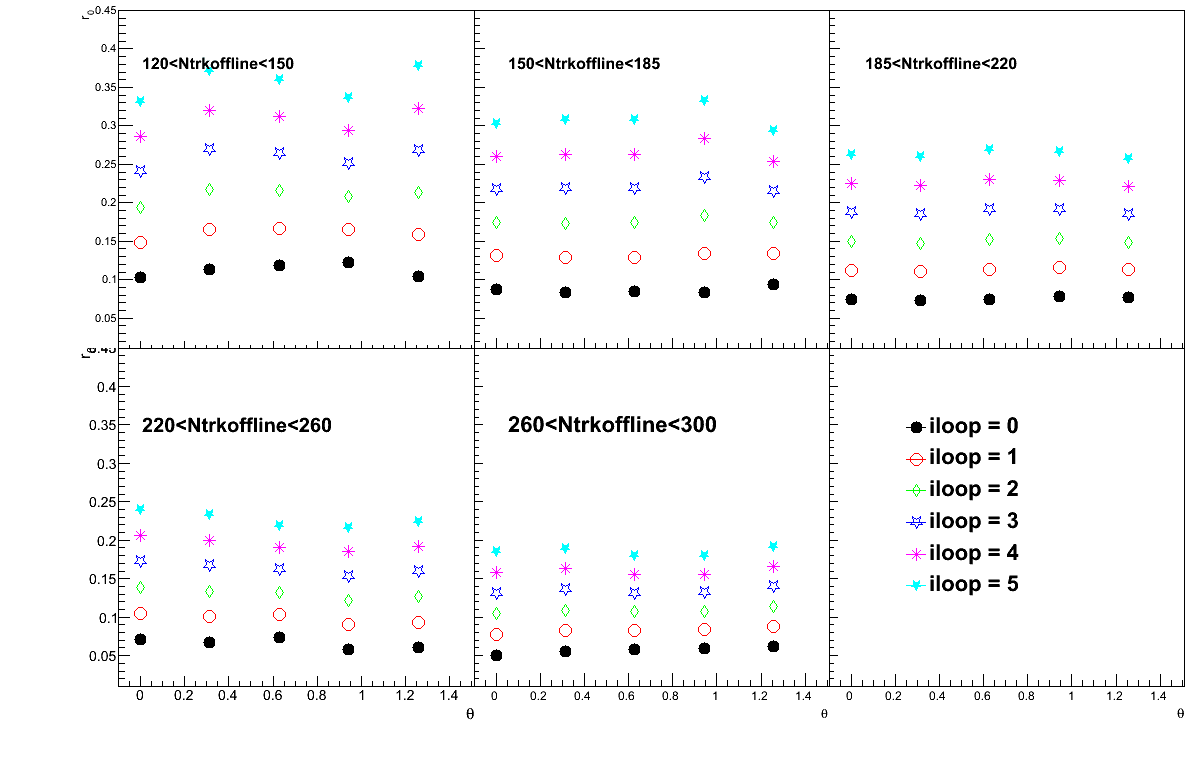
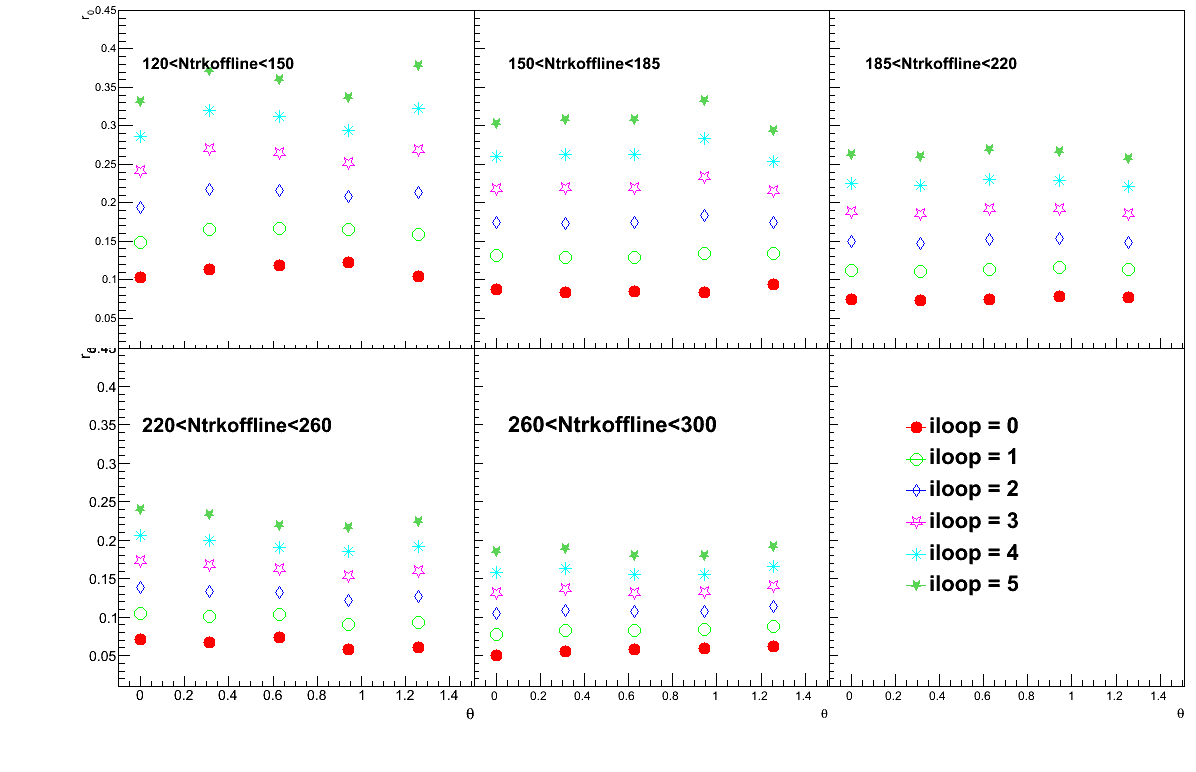
v2 sens

diff --git a/flow/LYZ/v2/v2sensdebug/tracknormcpt03to6/plotv2vspt.C b/flow/LYZ/v2/v2sensdebug/tracknormcpt03to6/plotv2vspt.C
@@ -54,7 +54,7 @@ for(int i=0;i<ntotbin;i++){
         for(int iloop=0;iloop<ndir;iloop++)
 	grProd_loop[iloop]->Draw("Psame");
 //	grProd->Draw("Psame");
-	TLegend *tl = new TLegend(0.4,0.3,0.7,0.70);
+	TLegend *tl = new TLegend(0.2,0.4,0.6,0.80);
 	tl->SetFillColor(0);
 	tl->SetBorderSize(0);
 	tl->SetTextSize(0.05);
@@ -62,7 +62,9 @@ for(int i=0;i<ntotbin;i++){
         for(int iloop=0;iloop<ndir;iloop++){
             TFile *fV2 = TFile::Open(Form("M%d%d/parin_%d.root",trkpointmax[i],trkpointmin[i],iloop));
             TVectorD *Vmean = (TVectorD*)fV2->Get(Form("D_%d/Vmean",ibin));
-            tl->AddEntry(grProd_loop[iloop],Form("LYZ V_{2} = %.3f",(*Vmean)[0]),"lp");
+            TVectorD *r0 = (TVectorD*)fV2->Get(Form("D_%d/D_0/r0",ibin));
+            double r0mean = r0->Sum()/r0->GetNrows();
+            tl->AddEntry(grProd_loop[iloop],Form("LYZ V^{mean}_{2} = %.3f, r^{mean}_{0}=%.3f",(*Vmean)[0],r0mean),"lp");
         }
 	if(i==0 || i==3) 
 		TLatex *tlx2 = new TLatex(0.3,0.8,Form("%d<Ntrkoffline<%d",trkpointmin[i],trkpointmax[i]));

diff --git a/flow/LYZ/v2/v2sensdebug/tracknormcpt03to6/plotr0vstheta_Ntrk.C b/flow/LYZ/v2/v2sensdebug/tracknormcpt03to6/plotr0vstheta_Ntrk.C
@@ -4,7 +4,7 @@ const int ndir = 6;
 const int trkpointmin[ntotbin] = {120,150,185,220,260};
 const int trkpointmax[ntotbin] = {150,185,220,260,300};
 const int marker[ndir] = {20,24,27,30,31,29};
-const int color[ndir] = {1,2,3,4,6,7};
+const int color[ndir] = {2,3,4,6,7,8};
 const int ntheta=5;
 void plotr0vstheta_Ntrk(){
 
